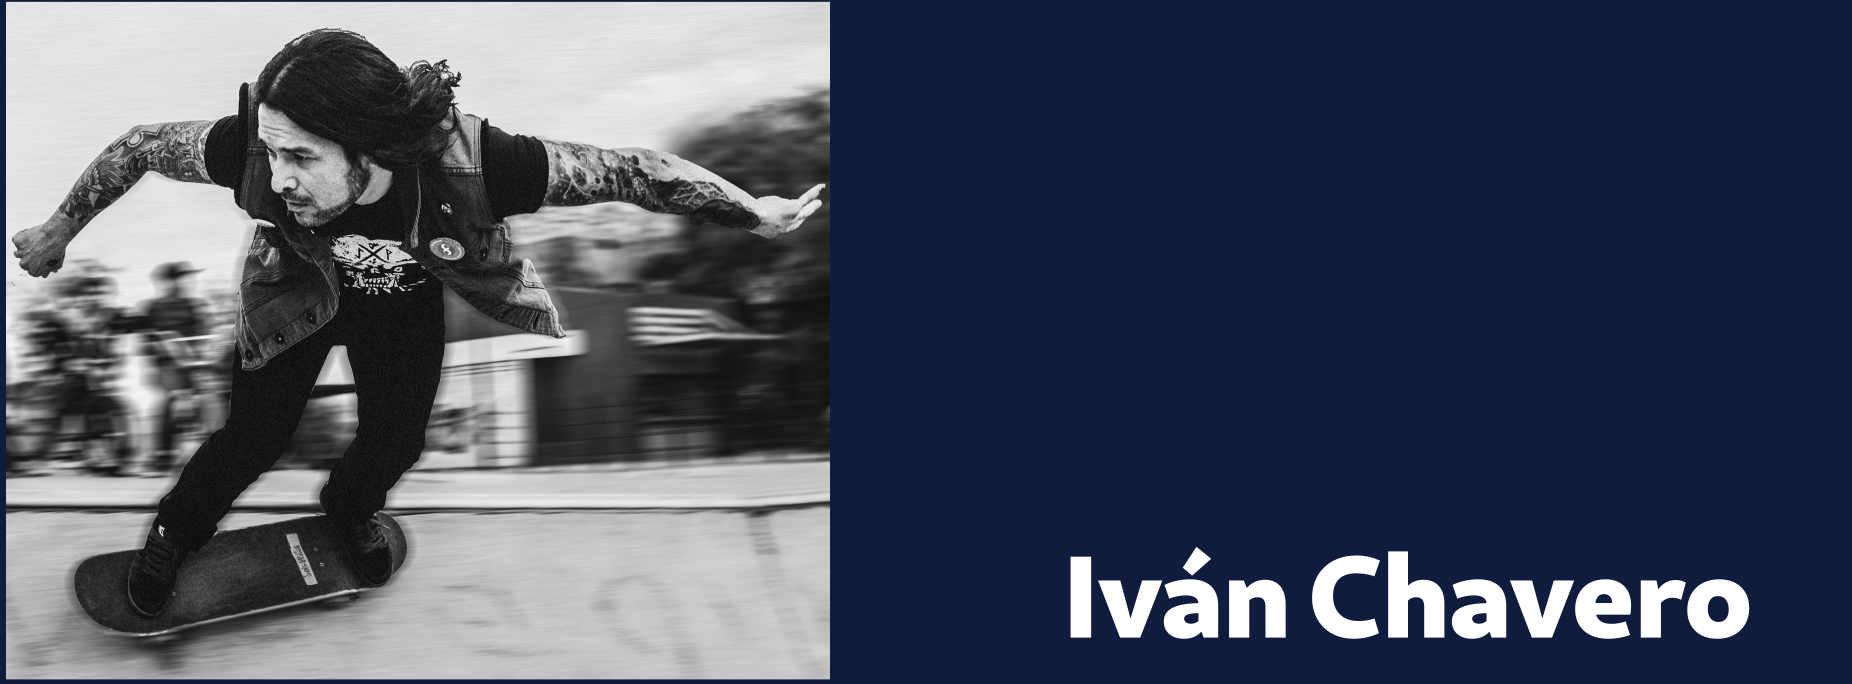
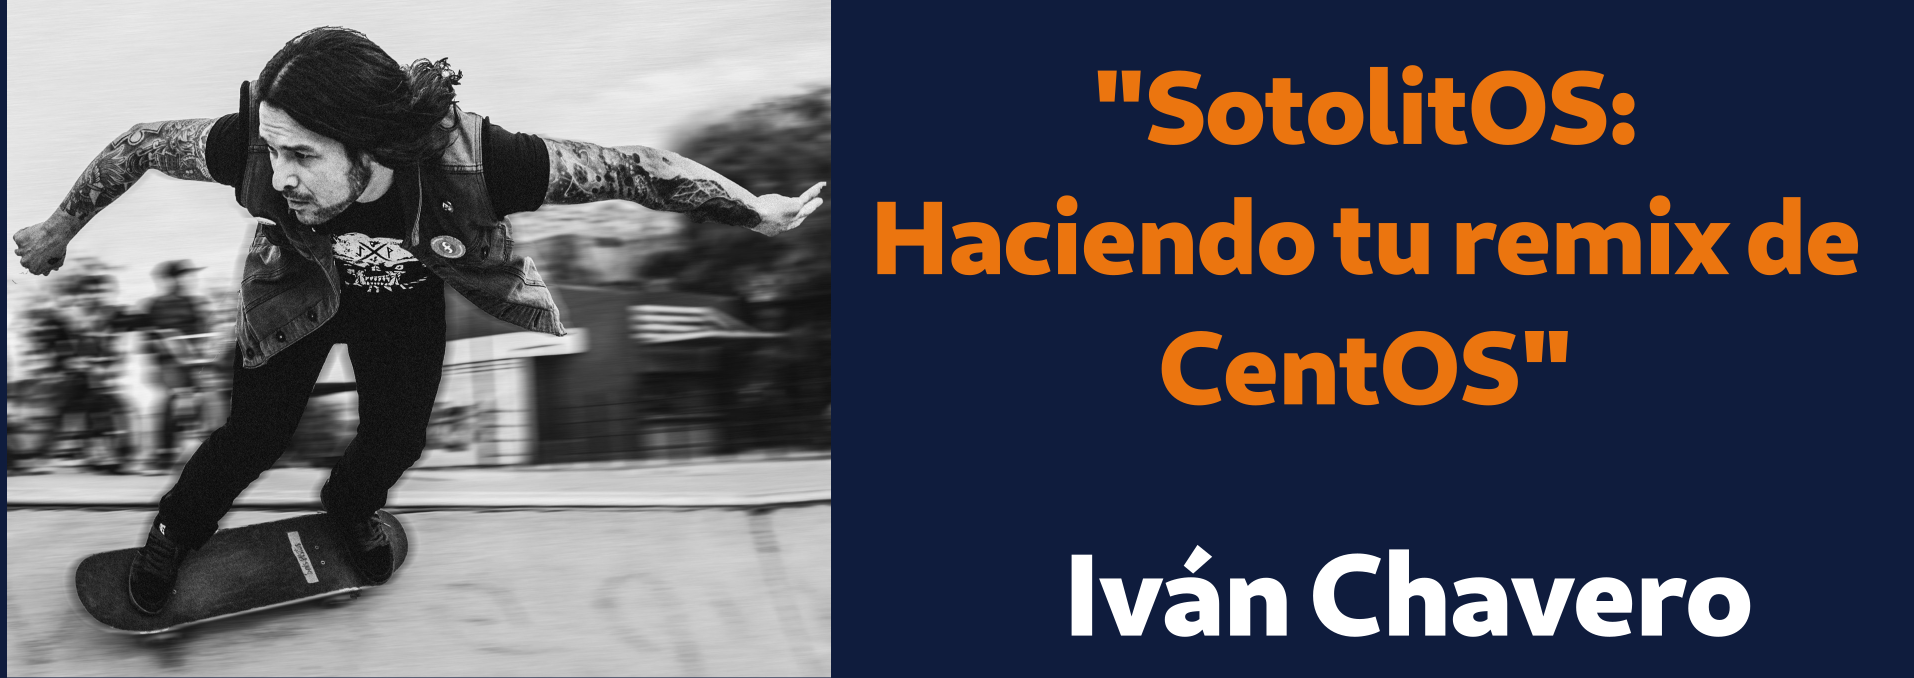
Se agregó participación de Chavero

diff --git a/content/articles/2021-03-19-invitacion_flisol.md b/content/articles/2021-03-19-invitacion_flisol.md
@@ -70,6 +70,15 @@ El Festival Latinoamericano de Instalación de Software Libre (FLISOL) **es el e
 
 <br />
 
+[![Chavero]({attach}2021-03-19-invitacion_flisol/2021-chavero.png)]({attach}2021-03-19-invitacion_flisol/flisol2021-chavero.png)
+
++ **SotolitOS: Haciendo tu remix de CentOS** por [Ivan Chavero](https://twitter.com/imcsk8)
++ Inicia: 14:00 CDMX
++ Termina: 15:00 CDMX
+
+<br />
+
+
 [![Hernan]({attach}2021-03-19-invitacion_flisol/2021-06-hernan.png)]({attach}2021-03-19-invitacion_flisol/flisol2021-06-hernan.png)
 
 + **Gobierno y el Software Libre** por [Hernán Pachas](https://twitter.com/hernanpachas)
